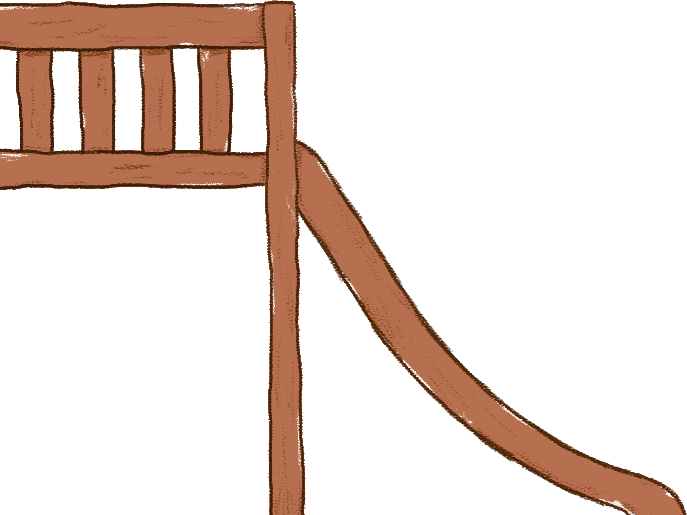
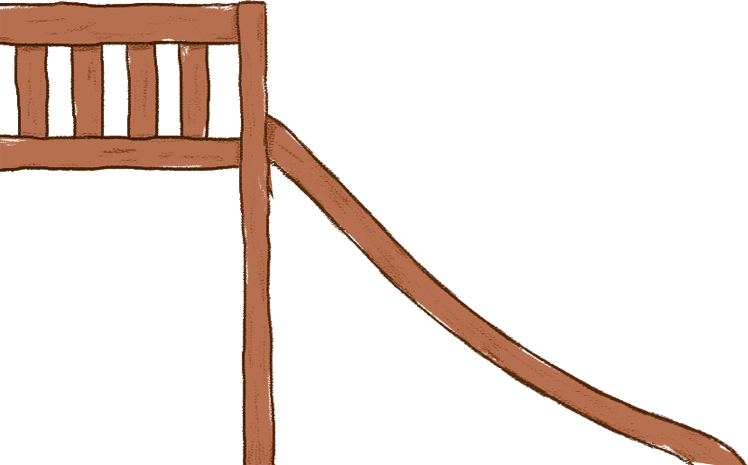
Slight changes to the slide and the values of the ball

diff --git a/source/js/main.js b/source/js/main.js
@@ -158,8 +158,8 @@ document.addEventListener("DOMContentLoaded", () => {
         }
       } else {
         Body.applyForce(player.body, player.body.position, {
-          x: 0.015,
-          y: 0.07,
+          x: 0.08 ,
+          y: 0.05,
         });
       }
     }
@@ -400,7 +400,7 @@ function screen01() {
   blocks.push(new PolygonFromSVG(
     world, 
     {
-      x: 320,
+      x: 300,
       y: 500,
       w: 685,
       h: 511,
@@ -577,7 +577,7 @@ function initPlayer() {
   player = new Ball(
     world,
     {
-      x: 180,
+      x: 140,
       y: -10,
       r: 30,
       color: "red",
@@ -587,10 +587,10 @@ function initPlayer() {
     {
       label: "Wollknäuel",
       isStatic: false,
-      density: 0.0005,
-      restitution: 0.8,
+      density: 0.001,
+      restitution: 0.9,
       friction: 0.01,
-      frictionAir: 0.005,
+      frictionAir: 0.009,
       angle: 0,
     }
   );
@@ -773,8 +773,7 @@ function draw() {
     image(imgRoom, -205, -80, 5085, 720);
     image(gifPsychedelic, 0, 0, 100, 100);
     image(imgXylophone, 800, 450, 500, 200);
-    //image(imgBed, 0, 165, 620, 465);
-    image(gifelgato, -60, -40, 470, 264);
+    image(gifelgato, -70, -10, 470, 264);
 
     blocks.forEach((block) => block.draw());
 
